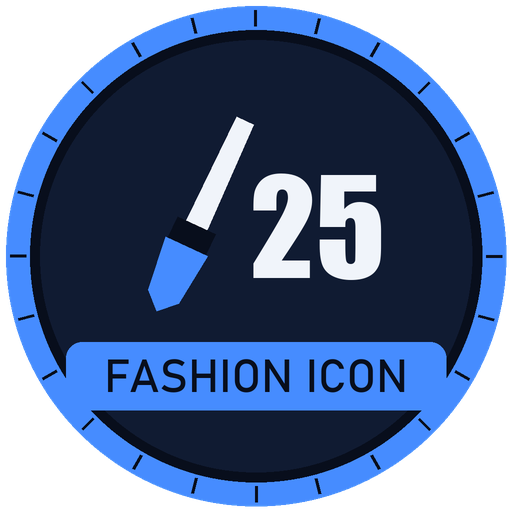
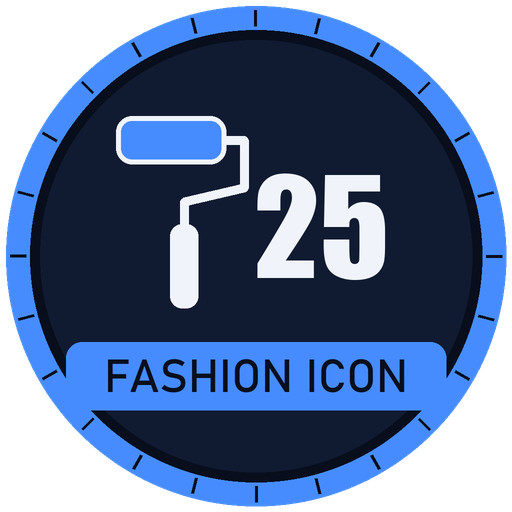
Badges: flask liquid follows the glass, coin circle centred, paint rollers for the skin badges

Changed region(s): [[0.2188, 0.2188, 0.7812, 0.625], [0.4688, 0.4688, 0.5312, 0.5312]]

diff --git a/tools/badges/badges_generate.py b/tools/badges/badges_generate.py
@@ -210,23 +210,26 @@ def emblem(d, kind, arg, cx, cy, accent):
         for i in range(4):
             y = cy + 70 - i * 30
             d.ellipse([S(cx - 135), S(y - 22), S(cx - 30), S(y + 22)], fill=accent, outline=NAVY_DARK, width=S(4))
-        d.ellipse([S(cx - 123), S(cy - 30), S(cx - 42), S(cy - 2)], outline=NAVY_DARK, width=S(3))
+        d.ellipse([S(cx - 123), S(cy - 34), S(cx - 42), S(cy - 6)], outline=NAVY_DARK, width=S(3))
         amount(d, arg, cx + 58, cy + 10, 110, WHITE)
     elif kind == "flask":
         # A lab flask (research), its liquid in the ring colour
         neck = [(-0.18, -1.0), (0.18, -1.0), (0.18, -0.35), (0.62, 0.7), (0.62, 0.9), (-0.62, 0.9), (-0.62, 0.7),
                 (-0.18, -0.35)]
         poly(d, neck, cx - 58, cy + 8, 100, WHITE)
-        poly(d, [(-0.5, 0.25), (0.5, 0.25), (0.55, 0.72), (0.55, 0.82), (-0.55, 0.82), (-0.55, 0.72)], cx - 58, cy + 8, 100,
-             accent)
+        # The liquid follows the flask's sloping sides, inset from the glass
+        liquid = [(-0.38, 0.3), (0.38, 0.3), (0.55, 0.7), (0.55, 0.82), (-0.55, 0.82), (-0.55, 0.7)]
+        poly(d, liquid, cx - 58, cy + 8, 100, accent)
         amount(d, arg, cx + 66, cy + 10, 110, WHITE)
     elif kind == "brush":
-        # A paintbrush, wet with the ring colour, and how many skins
-        poly(d, [(-0.09, -1.0), (0.09, -1.0), (0.11, 0.1), (-0.11, 0.1)], cx - 55, cy, 105, WHITE, math.radians(25))
-        poly(d, [(-0.2, 0.1), (0.2, 0.1), (0.2, 0.32), (-0.2, 0.32)], cx - 55, cy, 105, NAVY_DARK, math.radians(25))
-        poly(d, [(-0.22, 0.32), (0.22, 0.32), (0.16, 0.85), (0, 1.0), (-0.16, 0.85)], cx - 55, cy, 105, accent,
-             math.radians(25))
-        amount(d, arg, cx + 62, cy + 10, 130, WHITE)
+        # A paint roller (the roller in the ring colour) on its bent wire frame, and how many skins
+        w = S(9)
+        d.rounded_rectangle([S(cx - 140), S(cy - 100), S(cx - 30), S(cy - 52)], radius=S(16), fill=accent)
+        d.rounded_rectangle([S(cx - 140), S(cy - 100), S(cx - 30), S(cy - 52)], radius=S(16), outline=WHITE, width=S(5))
+        frame = [(cx - 30, cy - 76), (cx - 12, cy - 76), (cx - 12, cy - 28), (cx - 72, cy - 14), (cx - 72, cy + 12)]
+        d.line([(S(x), S(y)) for x, y in frame], fill=WHITE, width=w, joint="curve")
+        d.rounded_rectangle([S(cx - 86), S(cy + 8), S(cx - 58), S(cy + 92)], radius=S(12), fill=WHITE)
+        amount(d, arg, cx + 66, cy + 10, 130, WHITE)
     elif kind == "bridge":
         w = S(9)
         d.line([S(cx - 130), S(cy + 20), S(cx + 130), S(cy + 20)], fill=WHITE, width=S(12))
